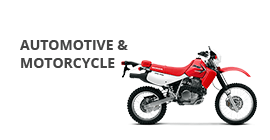
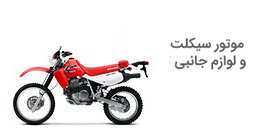
completing hot categories

Changed region(s): [[0.0296, 0.2571, 0.9778, 0.9143]]

diff --git a/index.html b/index.html
@@ -572,6 +572,117 @@
                     </li>
                 </ul>
             </section>
+            <section class="banner">
+                <div class="overlay_image">
+                    <img src="images/banner_2.jpg" alt="banner">
+                </div>
+            </section>
+            <section class="hotcategories flex">
+                <div class="hotcategoriesitem">
+                    <div class="hotcategorydetails">
+                        <div class="hotcategoryimage">
+                            <img src="images/hc_1.jpg" alt="">
+                            <a href="#" class="btn btn_qv">مشاهده</a>
+                        </div>
+                        <h4><a href="#">موتور سیکلت</a></h4>
+                        <ul class="hotcategorylist">
+                            <li class="hotcategorylistitem">
+                                <a href="#" class="">دسته بندی اول</a>
+                            </li>
+                            <li class="hotcategorylistitem">
+                                <a href="#" class="">دسته بندی دوم</a>
+                            </li>
+                            <li class="hotcategorylistitem">
+                                <a href="#" class="">دسته بندی سوم</a>
+                            </li>
+                            <li class="hotcategorylistitem">
+                                <a href="#" class="">دسته بندی چهارم</a>
+                            </li>
+                            <li class="hotcategorylistitem">
+                                <a href="#" class="">دسته بندی پنجم</a>
+                            </li>
+                        </ul>
+                    </div>
+                </div>
+                <div class="hotcategoriesitem">
+                    <div class="hotcategorydetails">
+                        <div class="hotcategoryimage">
+                            <img src="images/hc_2.jpg" alt="">
+                            <a href="#" class="btn btn_qv">مشاهده</a>
+                        </div>
+                        <h4><a href="#">موتور سیکلت</a></h4>
+                        <ul class="hotcategorylist">
+                            <li class="hotcategorylistitem">
+                                <a href="#" class="">دسته بندی اول</a>
+                            </li>
+                            <li class="hotcategorylistitem">
+                                <a href="#" class="">دسته بندی دوم</a>
+                            </li>
+                            <li class="hotcategorylistitem">
+                                <a href="#" class="">دسته بندی سوم</a>
+                            </li>
+                            <li class="hotcategorylistitem">
+                                <a href="#" class="">دسته بندی چهارم</a>
+                            </li>
+                            <li class="hotcategorylistitem">
+                                <a href="#" class="">دسته بندی پنجم</a>
+                            </li>
+                        </ul>
+                    </div>
+                </div>
+                <div class="hotcategoriesitem">
+                    <div class="hotcategorydetails">
+                        <div class="hotcategoryimage">
+                            <img src="images/hc_3.jpg" alt="">
+                            <a href="#" class="btn btn_qv">مشاهده</a>
+                        </div>
+                        <h4><a href="#">موتور سیکلت</a></h4>
+                        <ul class="hotcategorylist">
+                            <li class="hotcategorylistitem">
+                                <a href="#" class="">دسته بندی اول</a>
+                            </li>
+                            <li class="hotcategorylistitem">
+                                <a href="#" class="">دسته بندی دوم</a>
+                            </li>
+                            <li class="hotcategorylistitem">
+                                <a href="#" class="">دسته بندی سوم</a>
+                            </li>
+                            <li class="hotcategorylistitem">
+                                <a href="#" class="">دسته بندی چهارم</a>
+                            </li>
+                            <li class="hotcategorylistitem">
+                                <a href="#" class="">دسته بندی پنجم</a>
+                            </li>
+                        </ul>
+                    </div>
+                </div>
+                <div class="hotcategoriesitem">
+                    <div class="hotcategorydetails">
+                        <div class="hotcategoryimage">
+                            <img src="images/hc_4.jpg" alt="">
+                            <a href="#" class="btn btn_qv">مشاهده</a>
+                        </div>
+                        <h4><a href="#">موتور سیکلت</a></h4>
+                        <ul class="hotcategorylist">
+                            <li class="hotcategorylistitem">
+                                <a href="#" class="">دسته بندی اول</a>
+                            </li>
+                            <li class="hotcategorylistitem">
+                                <a href="#" class="">دسته بندی دوم</a>
+                            </li>
+                            <li class="hotcategorylistitem">
+                                <a href="#" class="">دسته بندی سوم</a>
+                            </li>
+                            <li class="hotcategorylistitem">
+                                <a href="#" class="">دسته بندی چهارم</a>
+                            </li>
+                            <li class="hotcategorylistitem">
+                                <a href="#" class="">دسته بندی پنجم</a>
+                            </li>
+                        </ul>
+                    </div>
+                </div>
+            </section>
         </main>
         <footer></footer>
 

diff --git a/CSS/main.css b/CSS/main.css
@@ -382,3 +382,30 @@
 .hotsaleinfo {
     flex-grow: 1;
 }
+
+.hotcategoriesitem {
+    width: 25%;
+}
+
+.hotcategorylist {
+    list-style: square;
+    margin-right: 15px;
+}
+
+.hotcategorydetails {
+    margin: 10px;
+}
+
+.hotcategoryimage {
+    position: relative;
+}
+
+.hotcategorydetails .btn {
+    position: absolute;
+    bottom: 27px;
+    right: 24px;
+}
+
+.hotcategorydetails h4 {
+    margin: 0;
+}
